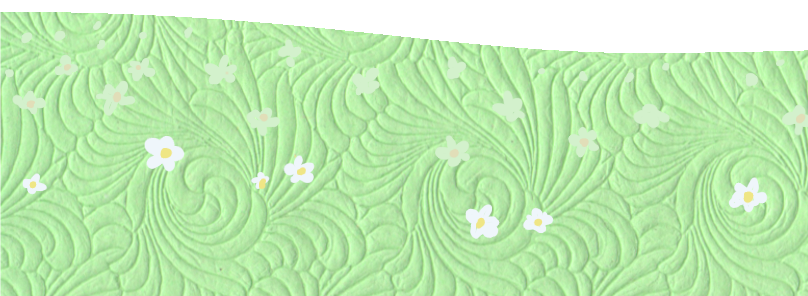
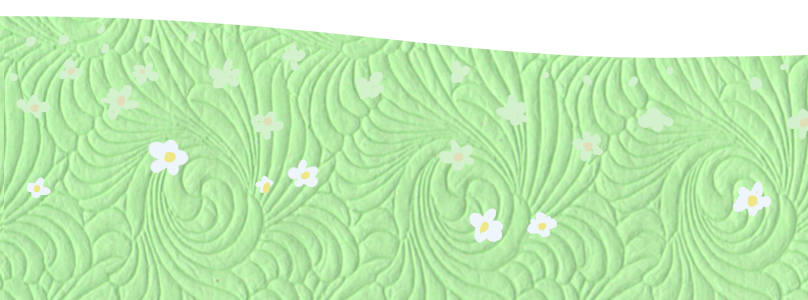
Imrpove scrolling

Changed region(s): [[0.0, 0.0304, 1.0, 1.0], [0.9592, 0.9122, 1.0, 1.0], [0.495, 0.4257, 0.526, 0.4561]]

diff --git a/sources/Game.cpp b/sources/Game.cpp
@@ -269,19 +269,20 @@ void Game::init(int windowW, int windowH, const uint8_t* in, int size) {
 	datas->decord2nd = theEntityManager.CreateEntity();
 	ADD_COMPONENT(datas->decord2nd, Transformation);
 	TRANSFORM(datas->decord2nd)->z = DL_Decor2nd;
-	TRANSFORM(datas->decord2nd)->size = Vector2(fullscreenWidth, (fullscreenWidth * 450.0) / 800.0);
-	TRANSFORM(datas->decord2nd)->position = Vector2(0, -((626+215 - 640)/1280.0)*fullscreenHeight);
+	TRANSFORM(datas->decord2nd)->size = Vector2(fullscreenWidth, (fullscreenWidth * 470.0) / 800.0);
+	TRANSFORM(datas->decord2nd)->position = Vector2(0, (640 - (610+235)) * fullscreenHeight * 0.5 / 640);
 	ADD_COMPONENT(datas->decord2nd, Scrolling);
 	SCROLLING(datas->decord2nd)->images.push_back("decor2nd_0.png");
 	SCROLLING(datas->decord2nd)->images.push_back("decor2nd_1.png");
 	SCROLLING(datas->decord2nd)->images.push_back("decor2nd_2.png");
 	SCROLLING(datas->decord2nd)->images.push_back("decor2nd_3.png");
 	SCROLLING(datas->decord2nd)->speed = Vector2(-.7, 0);
+	SCROLLING(datas->decord2nd)->displaySize = Vector2(TRANSFORM(datas->decord2nd)->size.X * 1.01, TRANSFORM(datas->decord2nd)->size.Y);
 
 	datas->decord1er = theEntityManager.CreateEntity();
 	ADD_COMPONENT(datas->decord1er, Transformation);
 	TRANSFORM(datas->decord1er)->z = DL_Decor1er;
-	TRANSFORM(datas->decord1er)->size = Vector2(fullscreenWidth, (fullscreenWidth * 296.0) / 800.0);
+	TRANSFORM(datas->decord1er)->size = Vector2(fullscreenWidth, (fullscreenWidth * 300.0) / 800.0);
 	TRANSFORM(datas->decord1er)->position = Vector2(0, (-fullscreenHeight + TRANSFORM(datas->decord1er)->size.Y) * 0.5);
 	ADD_COMPONENT(datas->decord1er, Scrolling);
 	SCROLLING(datas->decord1er)->images.push_back("decor1er_0.png");
@@ -289,6 +290,7 @@ void Game::init(int windowW, int windowH, const uint8_t* in, int size) {
 	SCROLLING(datas->decord1er)->images.push_back("decor1er_2.png");
 	SCROLLING(datas->decord1er)->images.push_back("decor1er_3.png");
 	SCROLLING(datas->decord1er)->speed = Vector2(-1.5, 0);
+	SCROLLING(datas->decord1er)->displaySize = Vector2(TRANSFORM(datas->decord1er)->size.X * 1.01, TRANSFORM(datas->decord1er)->size.Y);
 
 	datas->state2Manager[datas->state]->Enter();
 }
